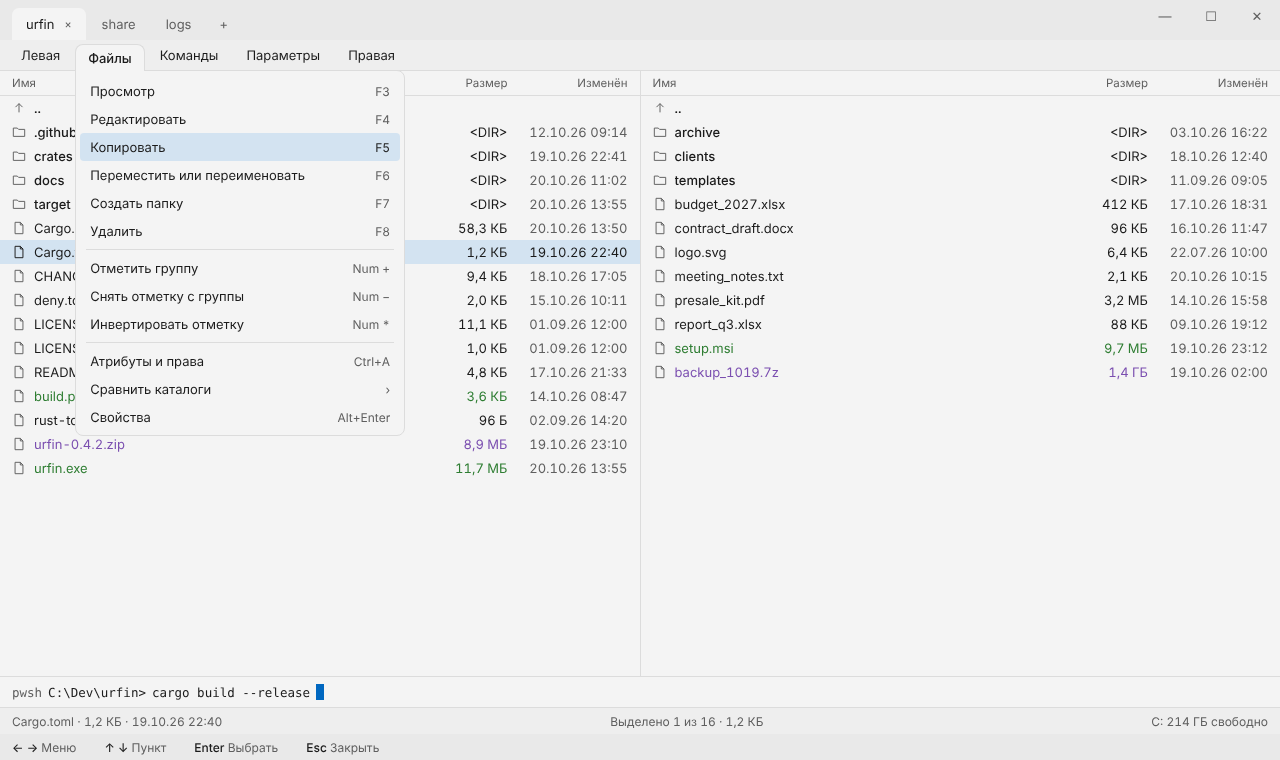
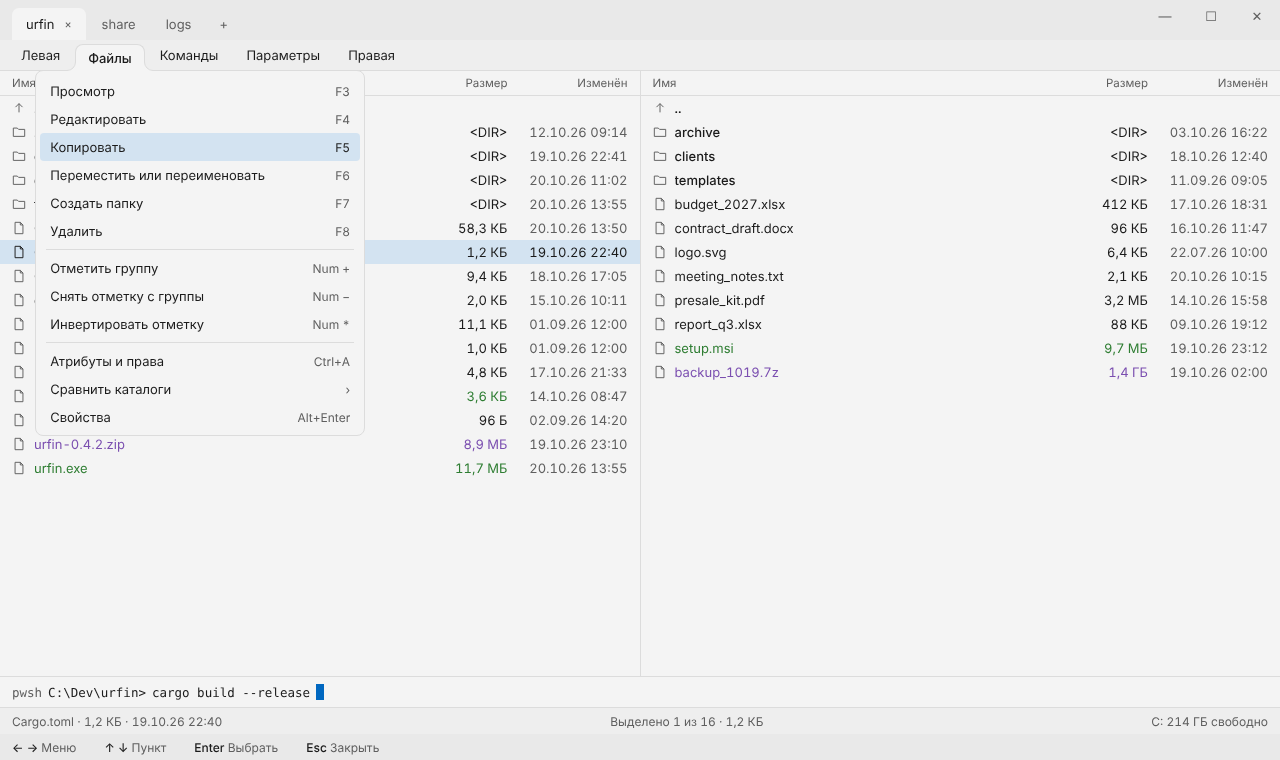
docs(design): корешок меню F9 в любом месте списка
Claude-Session: https://claude.ai/code/session_013ZpcYnbJMYkHW4aMDDmFTq

diff --git a/docs/design/window.dc.html b/docs/design/window.dc.html
@@ -240,7 +240,9 @@ body{margin:0}
 <div style="position: relative; display: flex">
 <button type="button" style="{{m.style}}">{{m.label}}</button>
 <sc-if value="{{m.open}}" hint-placeholder-val="{{ false }}">
-<div style="position: absolute; left: 0; top: 100%; width: 330px; padding: 6px 4px 4px; box-sizing: border-box; background: {{t.p}}; border: 1px solid {{t.b}}; border-radius: 0 8px 8px 8px; display: flex; flex-direction: column; z-index: 1">
+<sc-if value="{{m.filletL}}" hint-placeholder-val="{{ false }}"><svg width="9" height="9" viewBox="0 0 9 9" aria-hidden="true" style="position: absolute; left: -8px; top: calc(100% - 8px); z-index: 3"><path d="M0 9V8.5A8.5 8.5 0 0 0 8.5 0H9V9Z" fill="{{t.p}}"></path><path d="M0 8.5A8.5 8.5 0 0 0 8.5 0" fill="none" stroke="{{t.b}}"></path></svg></sc-if>
+<sc-if value="{{m.filletR}}" hint-placeholder-val="{{ false }}"><svg width="9" height="9" viewBox="0 0 9 9" aria-hidden="true" style="position: absolute; right: -8px; top: calc(100% - 8px); z-index: 3; transform: scaleX(-1)"><path d="M0 9V8.5A8.5 8.5 0 0 0 8.5 0H9V9Z" fill="{{t.p}}"></path><path d="M0 8.5A8.5 8.5 0 0 0 8.5 0" fill="none" stroke="{{t.b}}"></path></svg></sc-if>
+<div style="{{m.listStyle}}">
 <sc-for list="{{menuItems}}" as="mi" hint-placeholder-count="14">
 <sc-if value="{{mi.sep}}" hint-placeholder-val="{{ false }}"><div style="height: 1px; margin: 4px 6px; background: {{t.b}}"></div></sc-if>
 <sc-if value="{{mi.item}}" hint-placeholder-val="{{ true }}"><button type="button" style="{{mi.style}}"><span style="flex: 1; text-align: left">{{mi.label}}</span><span style="{{mi.keyStyle}}">{{mi.key}}</span></button></sc-if>
@@ -514,7 +516,7 @@ toggleOs: () => this.setState({ followOs: !followOs }),
 status: STATUS[screen] || STATUS.panels,
 isPanels: ["panels","menu","quick","copy","delete","conflict","progress"].indexOf(screen) >= 0,
 isDelete: screen === "delete", isConflict: screen === "conflict", isMenu: screen === "menu", isQuick: screen === "quick",
-menuBar: ["Левая","Файлы","Команды","Параметры","Правая"].map((label, i) => ({ label, open: i === 1, style: i === 1 ? "position: relative; z-index: 2; height: 27px; margin-bottom: -1px; padding: 0 12px 1px; border: 1px solid " + t.b + "; border-bottom: 0; border-radius: 8px 8px 0 0; font: inherit; font-weight: 500; background: " + t.p + "; color: " + t.t : "height: 24px; margin-bottom: 3px; padding: 0 12px; border: 1px solid transparent; border-radius: 4px; font: inherit; background: transparent; color: " + t.t })),
+menuBar: ["Левая","Файлы","Команды","Параметры","Правая"].map((label, i) => ({ label, open: i === 1, filletL: true, filletR: true, listStyle: "position: absolute; left: -40px; top: 100%; width: 330px; padding: 6px 4px 4px; box-sizing: border-box; background: " + t.p + "; border: 1px solid " + t.b + "; border-radius: 8px; display: flex; flex-direction: column; z-index: 1", style: i === 1 ? "position: relative; z-index: 2; height: 27px; margin-bottom: -1px; padding: 0 12px 1px; border: 1px solid " + t.b + "; border-bottom: 0; border-radius: 8px 8px 0 0; font: inherit; font-weight: 500; background: " + t.p + "; color: " + t.t : "height: 24px; margin-bottom: 3px; padding: 0 12px; border: 1px solid transparent; border-radius: 4px; font: inherit; background: transparent; color: " + t.t })),
 menuItems: [["Просмотр","F3"],["Редактировать","F4"],["Копировать","F5"],["Переместить или переименовать","F6"],["Создать папку","F7"],["Удалить","F8"],null,["Отметить группу","Num +"],["Снять отметку с группы","Num −"],["Инвертировать отметку","Num *"],null,["Атрибуты и права","Ctrl+A"],["Сравнить каталоги","›"],["Свойства","Alt+Enter"]].map((m, i) => m ? ({ item: true, sep: false, label: m[0], key: m[1], keyStyle: "font-size: 12px; color: " + (i === 2 ? t.ct : t.s), style: "height: 28px; display: flex; align-items: center; gap: 16px; padding: 0 10px; border: 0; border-radius: 4px; font: inherit; background: " + (i === 2 ? t.c : "transparent") + "; color: " + (i === 2 ? t.ct : t.t) }) : ({ item: false, sep: true })),
 showJobs: screen === "progress" || screen === "conflict",
 jobs: (screen === "conflict" ? [["Копирование","3 объекта → \\\\fs01\\share\\presale",35,"ждёт ответа: конфликт 4 из 12",t.rem,"Пауза"]] : [["Копирование","48 файлов → \\\\fs01\\share\\presale",35,"1,2 из 3,4 ГБ · 48 МБ/с · ещё 47 с",t.a,"Пауза"],["Удаление","target\\debug → Корзина",70,"9 012 из 12 870 · ещё 4 с",t.a,"Пауза"]]).map(([name, what, pct, info, col, act]) => ({ name, what, info, act, infoColor: col === t.a ? t.s : col, bar: "height: 100%; width: " + pct + "%; background: " + col })),

diff --git a/docs/design/DESIGN.md b/docs/design/DESIGN.md
@@ -31,7 +31,7 @@
 |---|---|---|
 | `theme-*.png` | Окно в 6 темах | T-01, G-05 |
 | `density-20-color-icons.png` | Плотность 20, цветные иконки | G-04, T-01 |
-| `screen-menu.png` | F9: строка меню (Левая, Файлы, Команды, Параметры, Правая) накрывает заголовки панелей; открытый пункт и его список — **одна фигура** («мешочек»): вкладка пункта фона `panel` со скруглением 8 сверху без нижней границы перетекает в список 330 (скругление 0 8 8 8, общая рамка `border`); пункт 28, клавиша справа `secondary`, разделители, «›» — подменю; текущий пункт — `cursor`. Всплывающая фигура, не модальное окно | G-05 (меню F9) |
+| `screen-menu.png` | F9: строка меню (Левая, Файлы, Команды, Параметры, Правая) накрывает заголовки панелей; открытый пункт и его список — **одна фигура** («мешочек»): вкладка пункта фона `panel` со скруглением 8 сверху без нижней границы перетекает в список 330 (общая рамка `border`). «Корешок» может стоять в любом месте верхнего края списка — список сдвигается так, как удобнее для компоновки (не выходит за окно, ровняется по сетке панелей); у корешка внутри края — вогнутые скругления 8 с обеих сторон, у края — угол списка прямой и скругление с этой стороны не рисуется; пункт 28, клавиша справа `secondary`, разделители, «›» — подменю; текущий пункт — `cursor`. Всплывающая фигура, не модальное окно | G-05 (меню F9) |
 | `screen-quick.png` | Быстрый поиск: строка 34 внизу активной панели, черта `accent`, иконка, набранный текст с кареткой, «N совпадений · k-е»; совпавший префикс имени — фон `highlight`, курсор на первом совпадении; клавиши перехода — в keybar | G-05 (quick search) |
 | `screen-copy.png` | F5: строка копирования — заголовок «Копировать N · размер в», поле пути, «Если файл есть» (Спросить/Заменить/Пропустить/Заменить, если новее), «Сохранять даты», «Проверить хэш»; кнопки Копировать (Enter, основная) / В фоне (Shift+Enter) / Отмена (Esc); черта сверху 2 px `accent` | G-05 (PromptDetail) |
 | `screen-delete.png` | F8: строка в ширину активной панели, черта `modified`, иконка корзины; Удалить (Enter, кнопка `modified`) / Безвозвратно (Shift+Enter) / Отмена | G-05 |
